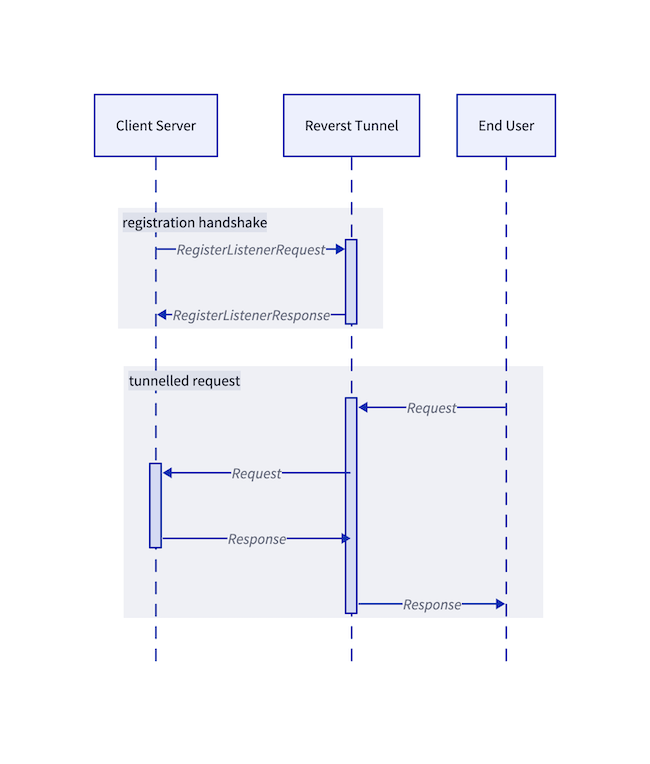
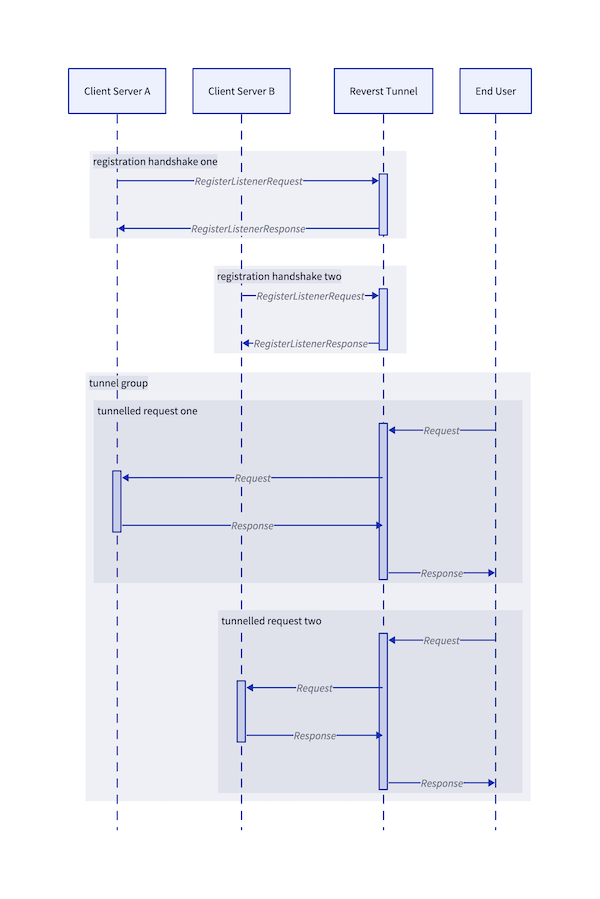
chore: update README and with usecase and expand diagram

diff --git a/README.md b/README.md
@@ -10,6 +10,13 @@ Reverst is a (load-balanced) reverse-tunnel server and Go server-client library 
 - Load-balanced: Run multiple instances of your services behind the same tunnel
 - Performant: Built on top of QUIC and HTTP/3
 
+## Use-case
+
+Reverst is for exposing services on the public internet from within restrictive networks (e.g. behind NAT gateways).
+The tunnel binary is intended to be deployed on the public internet.
+Client servers then dial out to the tunnels and register themselves on target tunnel groups.
+A tunnel group is a load-balanced set of client-servers, which is exposed through the reverst tunnel HTTP interface.
+
 ![Tunnel Lifecycle](./diagram.png)
 
 ## Usage
